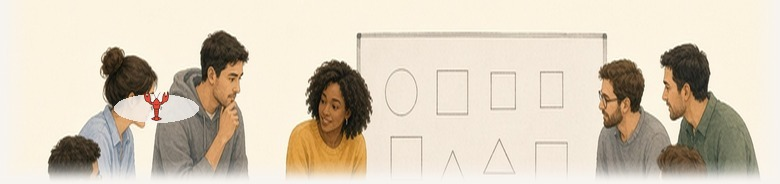
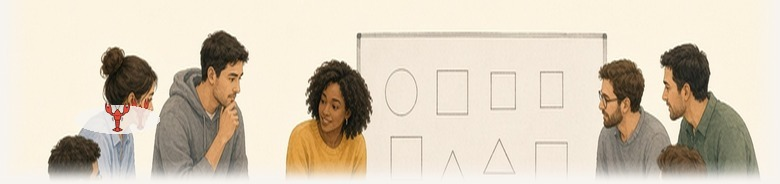
Fix step-08 Lobsy placement away from terracotta red in art.

Changed region(s): [[0.0923, 0.4891, 0.2769, 0.7337]]

diff --git a/tools/scripts/composite-onboarding-rustig-lobsters.py b/tools/scripts/composite-onboarding-rustig-lobsters.py
@@ -30,7 +30,7 @@ PLACEMENTS: dict[str, tuple[tuple[float, float], tuple[float, float]]] = {
     "step-05": ((0.58, 0.68), (0.55, 0.65)),
     "step-06": ((0.72, 0.58), (0.68, 0.55)),
     "step-07": ((0.38, 0.60), (0.35, 0.57)),
-    "step-08": ((0.18, 0.62), (0.20, 0.58)),
+    "step-08": ((0.14, 0.68), (0.15, 0.64)),
     "step-09": ((0.74, 0.56), (0.70, 0.54)),
     "step-10": ((0.22, 0.58), (0.24, 0.55)),
     "step-11": ((0.66, 0.57), (0.62, 0.54)),

diff --git a/tools/scripts/verify-onboarding-rustig-single-lobster-mobile.py b/tools/scripts/verify-onboarding-rustig-single-lobster-mobile.py
@@ -30,7 +30,7 @@ MOB_CENTER: dict[str, tuple[float, float]] = {
     "step-05": (0.55, 0.65),
     "step-06": (0.68, 0.55),
     "step-07": (0.35, 0.57),
-    "step-08": (0.20, 0.58),
+    "step-08": (0.15, 0.64),
     "step-09": (0.70, 0.54),
     "step-10": (0.24, 0.55),
     "step-11": (0.62, 0.54),

diff --git a/tools/scripts/capture-onboarding-rustig-report-ordered.py b/tools/scripts/capture-onboarding-rustig-report-ordered.py
@@ -24,7 +24,7 @@ MOB_CENTER: dict[str, tuple[float, float]] = {
     "step-05": (0.55, 0.65),
     "step-06": (0.68, 0.55),
     "step-07": (0.35, 0.57),
-    "step-08": (0.20, 0.58),
+    "step-08": (0.15, 0.64),
     "step-09": (0.70, 0.54),
     "step-10": (0.24, 0.55),
     "kompas": (0.50, 0.57),
